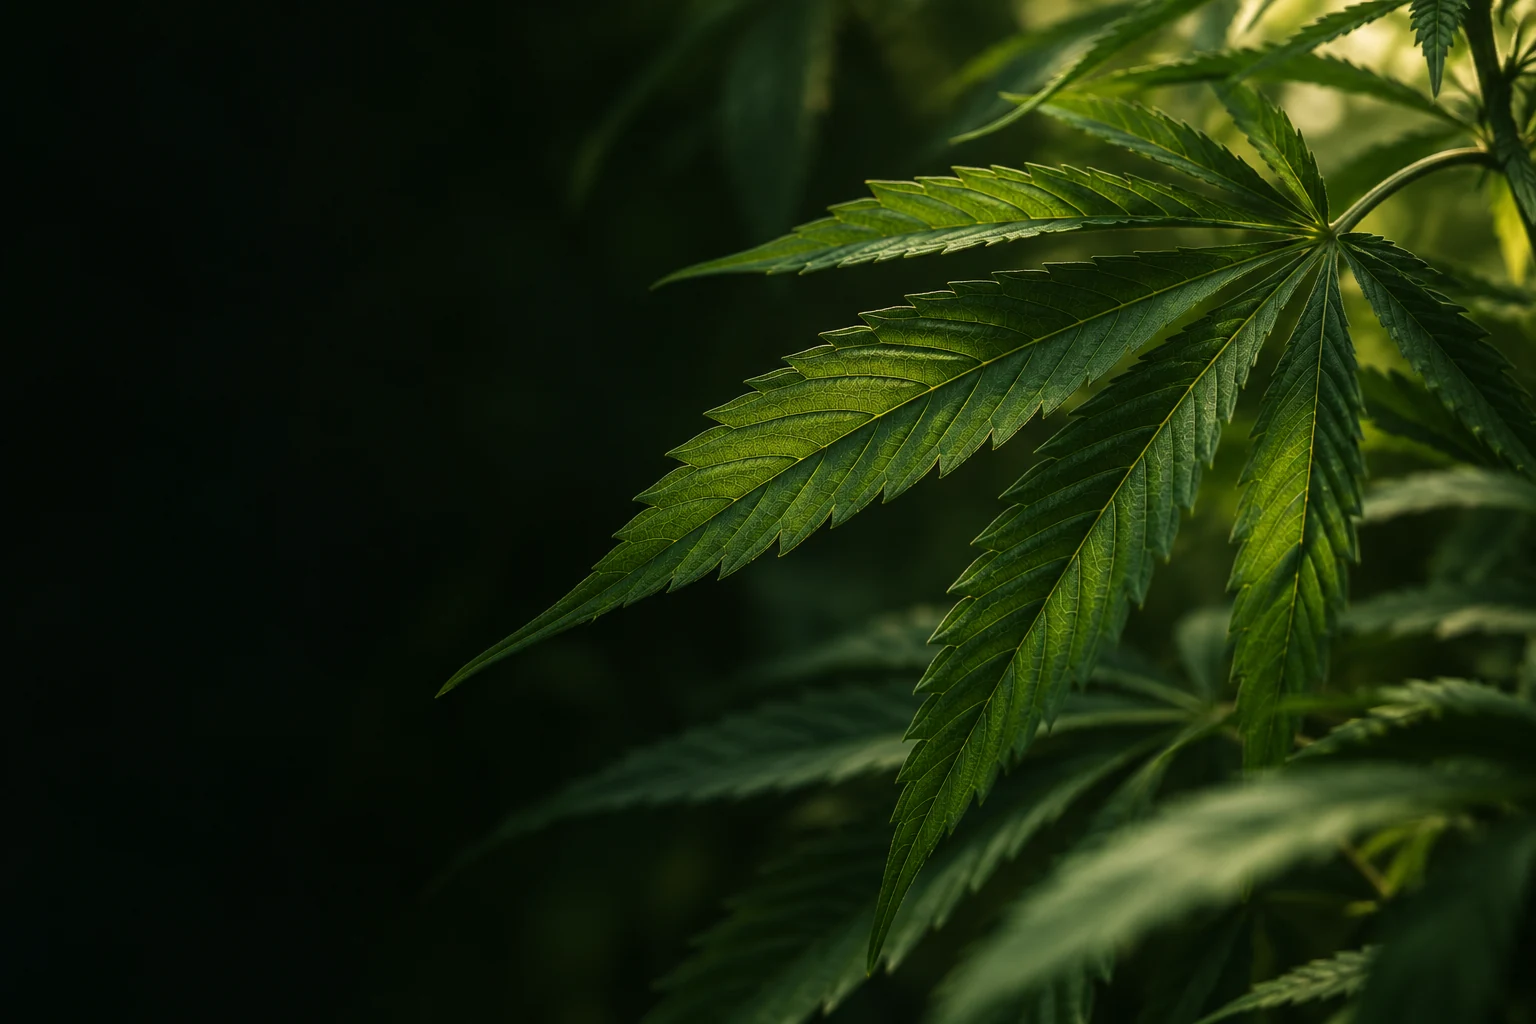
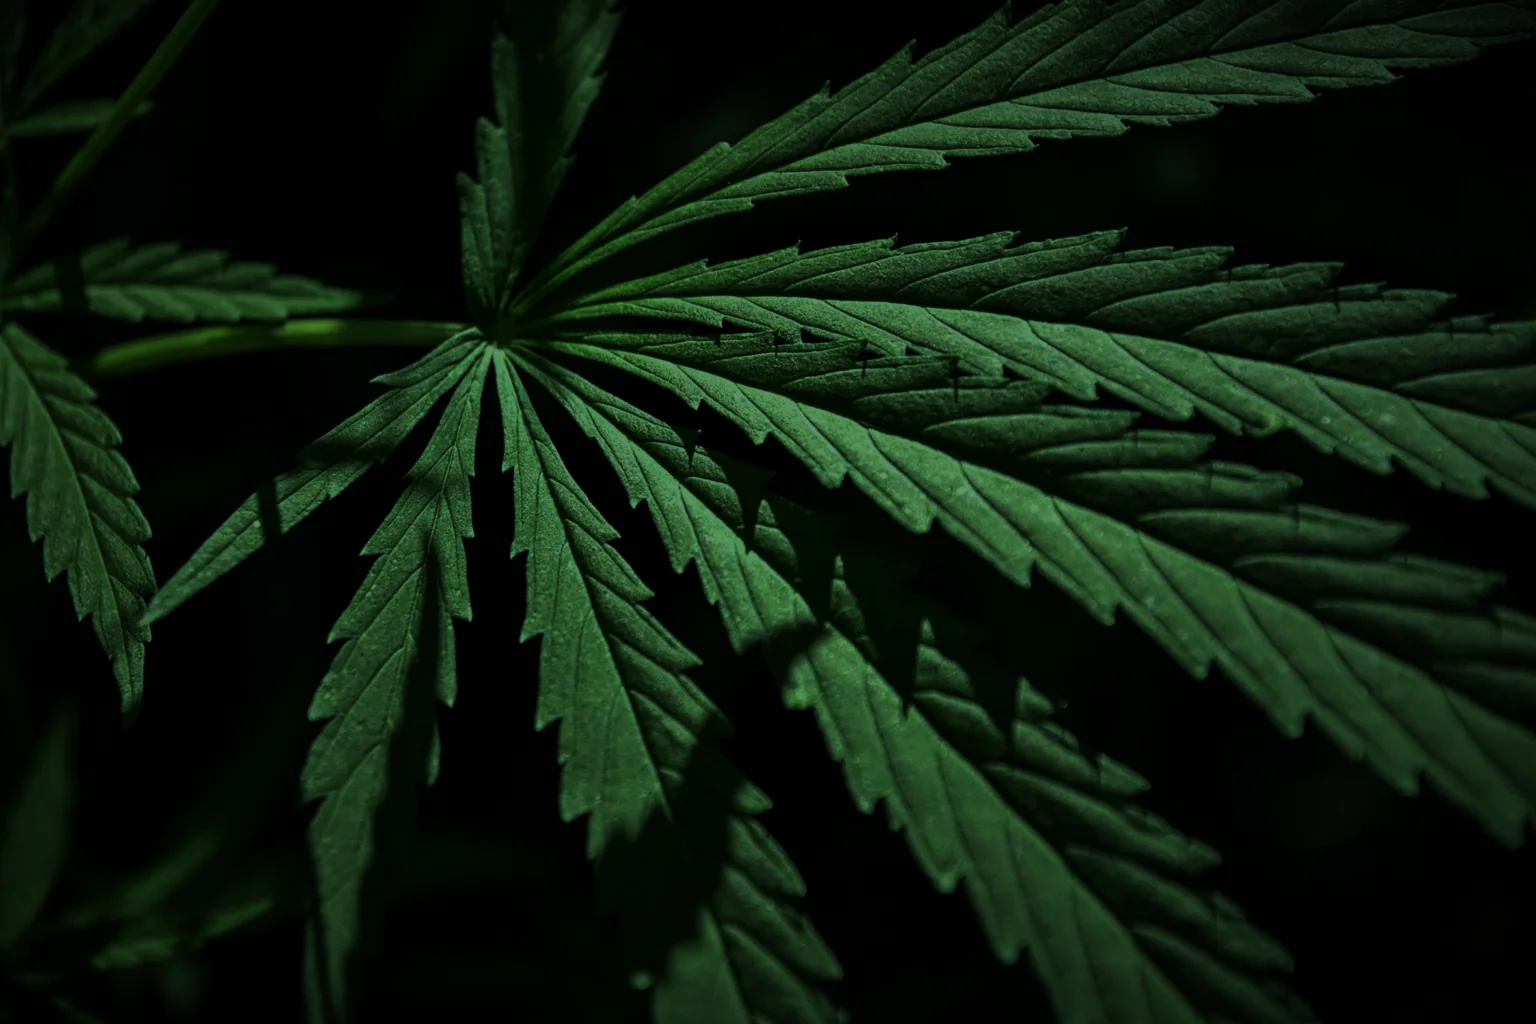
Replace the drawn leaves with real plant photography
The vector hemp leaves read as fake. The background plate is now a photograph
of a real cannabis plant, graded down into the bark palette, and the parallax
layers and page headers use a real leaf cut out of its studio background.
Photographs from Pexels: free for commercial use and modification.

Claude-Session: https://claude.ai/code/session_01DPbq65vZ1idaHdr8ZZKwof

diff --git a/botanical.css b/botanical.css
@@ -89,7 +89,8 @@ img{display:block;max-width:100%}
 }
 
 .leaves{position:absolute;inset:0;pointer-events:none;will-change:transform}
-.leaves svg{position:absolute;color:#0C1F15}
+.leaves img{position:absolute;height:auto;filter:brightness(.40) saturate(.72) contrast(1.06)}
+.fore img{filter:brightness(.24) saturate(.6) contrast(1.1)}
 .mid{transform:translate3d(0,var(--midY,0),0) scale(var(--midS,1))}
 .fore{transform:translate3d(0,var(--foreY,0),0) scale(var(--foreS,1));filter:blur(11px);opacity:calc(var(--foreO,1) * .72);z-index:6}
 .lf1{left:-14%;top:-18%;width:46vw;min-width:360px;opacity:.85;transform:rotate(14deg)}
@@ -237,8 +238,9 @@ img{display:block;max-width:100%}
   border-bottom:1px solid var(--line2);
 }
 .pagehead .leafmark{
-  position:absolute;right:-7%;top:-36%;width:clamp(260px,34vw,560px);
-  color:#0E2217;pointer-events:none;transform:rotate(18deg);
+  position:absolute;right:-7%;top:-36%;width:clamp(260px,34vw,560px);height:auto;
+  pointer-events:none;transform:rotate(18deg);
+  filter:brightness(.17) saturate(.5) contrast(1.1);opacity:.9;
 }
 .pagehead h1{font-size:clamp(2.4rem,6vw,5rem);letter-spacing:-.035em;margin-bottom:.32em;position:relative}
 .pagehead .kicker,.pagehead .lede{position:relative}

diff --git a/index.html b/index.html
@@ -52,8 +52,8 @@
     <div class="veil"></div>
 
     <div class="leaves mid" id="midLeaves" aria-hidden="true">
-      <svg class="lf1" viewBox="-85 -128 170 170" fill="url(#leafShade)"><use href="#hemp"/></svg>
-      <svg class="lf2" viewBox="-85 -128 170 170" fill="url(#leafShade)"><use href="#hemp"/></svg>
+      <img class="lf1" src="leaves/leaf-a.webp" alt="" aria-hidden="true" decoding="async">
+      <img class="lf2" src="leaves/leaf-b.webp" alt="" aria-hidden="true" decoding="async">
     </div>
 
     <div class="bottlewrap" id="bottleWrap">
@@ -127,8 +127,8 @@
     </div>
 
     <div class="leaves fore" id="foreLeaves" aria-hidden="true">
-      <svg class="lf3" viewBox="-85 -128 170 170" fill="url(#leafShade)"><use href="#hemp"/></svg>
-      <svg class="lf4" viewBox="-85 -128 170 170" fill="url(#leafShade)"><use href="#hemp"/></svg>
+      <img class="lf3" src="leaves/leaf-c.webp" alt="" aria-hidden="true" decoding="async">
+      <img class="lf4" src="leaves/leaf-a.webp" alt="" aria-hidden="true" decoding="async">
     </div>
 
     <div class="dim" id="dim" aria-hidden="true"></div>

diff --git a/content/commitment.html b/content/commitment.html
@@ -2,7 +2,7 @@
 <!--desc: Four things about CBX Medical that anyone can verify: a company number, a distribution channel, a training record and a research programme.-->
 <!--nav: commitment.html-->
 <header class="pagehead">
-  <svg class="leafmark" viewBox="-85 -128 170 170" fill="currentColor" aria-hidden="true"><use href="#hemp"/></svg>
+  <img class="leafmark" src="leaves/leaf-a.webp" alt="" aria-hidden="true" decoding="async">
   <div class="wrap">
     <p class="kicker">WHERE WE STAND</p>
     <h1>Checkable,<br>not persuasive</h1>

diff --git a/content/professionals.html b/content/professionals.html
@@ -2,7 +2,7 @@
 <!--desc: Training for doctors, pharmacists and hospital teams, and research projects run with Belgian universities and hospitals.-->
 <!--nav: professionals.html-->
 <header class="pagehead">
-  <svg class="leafmark" viewBox="-85 -128 170 170" fill="currentColor" aria-hidden="true"><use href="#hemp"/></svg>
+  <img class="leafmark" src="leaves/leaf-a.webp" alt="" aria-hidden="true" decoding="async">
   <div class="wrap">
     <p class="kicker">FOR CARE TEAMS</p>
     <h1>We train<br>before we sell</h1>

diff --git a/content/journal.html b/content/journal.html
@@ -2,7 +2,7 @@
 <!--desc: What CBX Medical publishes: features and research notes on fibromyalgia, cannabinoids, opioids and the endocannabinoid system.-->
 <!--nav: journal.html-->
 <header class="pagehead">
-  <svg class="leafmark" viewBox="-85 -128 170 170" fill="currentColor" aria-hidden="true"><use href="#hemp"/></svg>
+  <img class="leafmark" src="leaves/leaf-a.webp" alt="" aria-hidden="true" decoding="async">
   <div class="wrap">
     <p class="kicker">JOURNAL</p>
     <h1>What we publish</h1>

diff --git a/content/shop.html b/content/shop.html
@@ -2,7 +2,7 @@
 <!--desc: Twelve products across three ranges — CanFlex, MetaFibro and CanRelax. Made in Belgium, sold through pharmacies.-->
 <!--nav: shop.html-->
 <header class="pagehead">
-  <svg class="leafmark" viewBox="-85 -128 170 170" fill="currentColor" aria-hidden="true"><use href="#hemp"/></svg>
+  <img class="leafmark" src="leaves/leaf-a.webp" alt="" aria-hidden="true" decoding="async">
   <div class="wrap">
     <p class="kicker">THE BOTANICAL COLLECTION</p>
     <h1>The shop</h1>

diff --git a/commitment.html b/commitment.html
@@ -46,7 +46,7 @@
 
 <main id="top">
 <header class="pagehead">
-  <svg class="leafmark" viewBox="-85 -128 170 170" fill="currentColor" aria-hidden="true"><use href="#hemp"/></svg>
+  <img class="leafmark" src="leaves/leaf-a.webp" alt="" aria-hidden="true" decoding="async">
   <div class="wrap">
     <p class="kicker">WHERE WE STAND</p>
     <h1>Checkable,<br>not persuasive</h1>

diff --git a/professionals.html b/professionals.html
@@ -46,7 +46,7 @@
 
 <main id="top">
 <header class="pagehead">
-  <svg class="leafmark" viewBox="-85 -128 170 170" fill="currentColor" aria-hidden="true"><use href="#hemp"/></svg>
+  <img class="leafmark" src="leaves/leaf-a.webp" alt="" aria-hidden="true" decoding="async">
   <div class="wrap">
     <p class="kicker">FOR CARE TEAMS</p>
     <h1>We train<br>before we sell</h1>

diff --git a/shop.html b/shop.html
@@ -46,7 +46,7 @@
 
 <main id="top">
 <header class="pagehead">
-  <svg class="leafmark" viewBox="-85 -128 170 170" fill="currentColor" aria-hidden="true"><use href="#hemp"/></svg>
+  <img class="leafmark" src="leaves/leaf-a.webp" alt="" aria-hidden="true" decoding="async">
   <div class="wrap">
     <p class="kicker">THE BOTANICAL COLLECTION</p>
     <h1>The shop</h1>

diff --git a/journal.html b/journal.html
@@ -46,7 +46,7 @@
 
 <main id="top">
 <header class="pagehead">
-  <svg class="leafmark" viewBox="-85 -128 170 170" fill="currentColor" aria-hidden="true"><use href="#hemp"/></svg>
+  <img class="leafmark" src="leaves/leaf-a.webp" alt="" aria-hidden="true" decoding="async">
   <div class="wrap">
     <p class="kicker">JOURNAL</p>
     <h1>What we publish</h1>

diff --git a/README.md b/README.md
@@ -40,4 +40,7 @@ shop cannot be reached, the bag is kept and the visitor gets direct product link
   real URLs are supplied.
 - No new medical claim has been added anywhere.
 
-Product photography: CBX Medical. Botanical cover: generated for this design.
+Photography: product shots are CBX Medical's own. The plant background and the
+leaf cut-outs in `leaves/` are real photographs from Pexels, free for commercial
+use and modification without attribution — cut out and colour-graded for this
+design. Swap in CBX's own plant photography when it exists.
